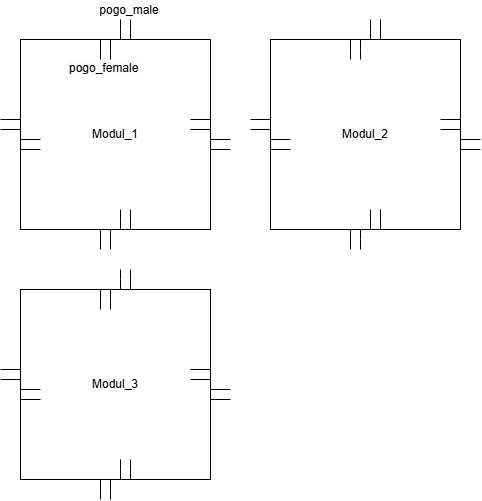
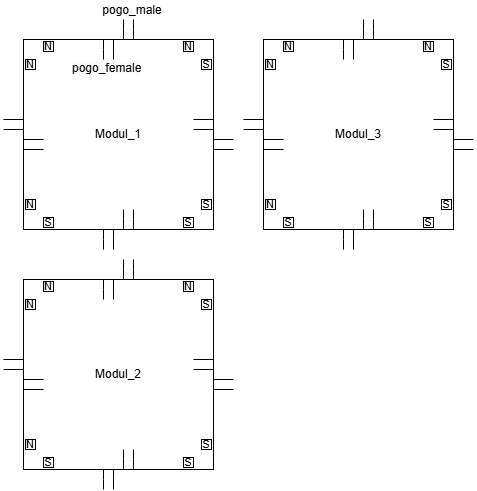
Update on Bericht

diff --git a/Bericht/Kapitel/vision.tex b/Bericht/Kapitel/vision.tex
@@ -1,12 +1,12 @@
 \chapter{Modulares Eingabesystem}
 \section{Vision}
-Das Eingabesystem verfolgt die Vision eines flexiblen und erweiterbaren Steuerungssystems, das sich an die individuellen Bedürfnisse der Benutzer anpasst. Im Zentrum dieser Vision steht ein Hauptmodul, das als Mikrocontroller-Einheit dient und über eine USB-Schnittstelle mit einem Computer verbunden wird. Dieses Hauptmodul koordiniert die Kommunikation und Funktionalität der angeschlossenen Module.
+Das Eingabesystem verfolgt die Vision eines flexiblen und erweiterbaren Systems, das sich an die individuellen Bedürfnisse der Benutzer anpasst. Im Zentrum steht ein Hauptmodul, das als Mikrocontroller-Einheit dient und über eine USB-Schnittstelle mit einem Computer verbunden wird. Dieses Hauptmodul koordiniert die Kommunikation und Funktionalität der verbundenen Module.
 \\
 \\
-Die Module des Systems, wie das Tastatur-Modul mit einer 4x4-Tastenmatrix oder das Audio-Modul mit Potentiometern und Fadern, sind frei kombinierbar und können je nach Anwendungsfall hinzugefügt oder entfernt werden. Dies ermöglicht eine maßgeschneiderte Konfiguration für unterschiedliche Aufgaben wie Textverarbeitung, Bildbearbeitung, Audiobearbeitung oder Gaming.
+Die Module, wie das Tastatur-Modul mit einer 4x4-Tastenmatrix oder das Audio-Modul mit Potentiometern und Fadern, sind frei kombinierbar und können je nach Anwendungsfall hinzugefügt oder entfernt werden. Dies ermöglicht eine Konfiguration für unterschiedliche Aufgaben wie Textverarbeitung, Bildbearbeitung, Audiobearbeitung oder Gaming.
 \\
 \\
-Die folgende Abbildung gewährt einen Überblick über das Eingabesystem:
+Die folgende Abbildung gewährt einen Überblick des Eingabesystems:
 \begin{figure}[H]
     \centering    
     \fbox{\includegraphics[width=.75\textwidth]{Bilder/bu_vision.png}}
@@ -15,11 +15,11 @@ Die folgende Abbildung gewährt einen Überblick über das Eingabesystem:
 \end{figure}
 \noindent Die gestrichelten Linien stellen eine bereits hergestellte Verbindung zwischen den Modulen dar, wobei die \glqq Plus\grqq{} Symbole einen weiteren möglichen Modulanschluss darstellen. Die Module werden untereinander durch die Verwendung von Pogo-Pin-Steckern verbunden.
 \subsection{Steckverbindung}
-Zwischen den Modulen werden Daten und Spannungsversorgung über eine 4 Pin-Verbindung realisiert. Diese sind VCC (Spannungsversorgung), Data + (Datenbus), Data - (invertierter Datenbus) und GND (Masse). Da der Benutzer die Möglichkeit haben soll, jedes Modul an jede Seite eines anderen anstecken zu können, werden pro Seite zwei 2-Pin Pogo Stecker verwendet, ein 2-Pin Male und ein 2-Pin Female Stecker. Dadurch kann durch kluge Positionierung jede Seite eines Moduls mit jeder Seite eines anderen verbunden werden.
+Zwischen den Modulen werden Daten und Spannungsversorgung über eine 4 Pin-Verbindung realisiert. Diese sind VCC (Spannungsversorgung), Data + (Datenbus), Data - (invertierter Datenbus) und GND (Masse). Da der Benutzer die Möglichkeit haben soll, jedes Modul an jede Seite eines anderen anstecken zu können, werden pro Seite zwei 2-Pin Pogo Stecker verwendet, ein 2-Pin Male und ein 2-Pin Female Stecker. Dadurch kann durch kluge Positionierung jede Seite eines Moduls mit jeder Seite eines anderen verbunden werden. Um eine feste Verbindung zu gewährleisten,  werden Neodym-Magnete ins Gehäuse verbaut. Somit werden die Module nicht durch ein Versehen und Verrutschen voneinander getrennt.
 \begin{figure}[H]
     \centering    
-    \fbox{\includegraphics[width=.75\textwidth]{Bilder/bu_pogoverbindung.png}}
+    \fbox{\includegraphics[width=.85\textwidth]{Bilder/bu_pogoverbindung.png}}
     \caption{Pogo verbindung}
     \label{pogo_verbindung}
 \end{figure}
- \noindent Abbildung \ref{pogo_verbindung} zeigt, dass die Steckverbindungen eine beliebige Anordnung der Module zulassen.
+ \noindent Abbildung \ref{pogo_verbindung} zeigt, dass die Steckverbindungen eine nahezu beliebige Anordnung der Module zulassen. Es gibt Kombinationen von Seiten wie z.B. Oberseite und Oberseite, die aufgrund der physikalischen Eigenschaften der Magnete nicht verbunden werden können. Nichtsdestotrotz würde diese Kombination wenig Sinn ergeben, da dadurch beide Oberseiten in verschiedene Richtungen zeigen würden.  Die \glqq N\grqq{} und \glqq S\grqq{} Symbole stellen die im Gehäuse verbauten Magneten (Nord- und Südpol) zum Zusammenhalt der Module dar.

diff --git a/Bericht/Kapitel/datenbus.tex b/Bericht/Kapitel/datenbus.tex
@@ -1,15 +1,15 @@
-\section{Datenbus}
-Eines der Hauptbestandteile des modularen Eingabesystems ist das Entwerfen und Umsetzen eines leistungsfähigen und flexiblen Datenbusses. Dieser Datenbus dient als Kommunikationsschnittstelle zwischen den verschiedenen Modulen, wie dem Keypad-Modul und dem Audiomodul und ermöglicht dadurch die Datenübertragung zum Hauptmodul. Skalierbarkeit, Zuverlässigkeit und Geschwindigkeit sind die Hauptkriterien des Datenbusses. Ziel ist es, eine einfache Erweiterbarkeit durch Hinzufügen oder Entfernen von Modulen zu ermöglichen, ohne dabei grundlegende Kommunikationsmechanismen zu beeinträchtigen.
+\section{Serieller Datenbus}
+Eines der Hauptbestandteile des modularen Eingabesystems ist das Entwerfen und Umsetzen eines leistungsfähigen und flexiblen Datenbusses. Dieser Datenbus dient als Kommunikationsschnittstelle zwischen den verschiedenen Modulen, wie dem Keypad-Modul und dem Audiomodul und ermöglicht dadurch die Datenübertragung zum Hauptmodul. Die Hauptkriterien des Datenbusses sind Skalierbarkeit, Zuverlässigkeit und Geschwindigkeit. Ziel ist es, eine einfache Erweiterbarkeit durch Hinzufügen oder Entfernen von Modulen zu ermöglichen, ohne dabei die grundlegende Struktur der Kommunikation zu verändern.
 
 \section{Aufbau des Datenbusses}
 Der Bus ist nach folgendem Schema aufgebaut:
 \begin{itemize}
-    \item Start of Frame (SOF) - 2 Bit zum Synchronisieren der Frequenzen; Durch ein HIGH-Value wird der Begin des SOF bekanntgegeben und durch das darauf folgende LOW-Value können die Teilnehmer sich auf die Übertragungsgeschwindigkeit synchronisieren.
-    \item Sendeadresse -  3 Bit zum Senden der Adresse; Die Adresse 0x00 ist für neue Teilnehmer reserviert, über diese Adresse findet die Adressvergabe statt. Die Adresse 0x01 ist fest an das Hauptmodul vergeben, alle Teilnehmer wissen das auf dieser Adresse das Hauptmodul liegt. Die Adressen 0x02 bis 0x07 stehen für Teilnehmer zur Verfügung. 3 Bit sind vollkommen aussreichend, da das System als Desktop Erweiterung geplant ist und mehr als 6 Module nicht vorgesehen ist. Sollten in Zukunft mehr Teilnehmer erforderlich sein, lässt sich das im Code leicht anpassen.
-    \item Content of Frame (COF) - 3 Bit für Datenlänge in Byte; Das COF enthält die Länge der Übertragenden Daten in Byte. Dies dient dazu, dass die Länge der zu übertragenden Daten dynamisch sein kann (bis zu 8 Byte). Zusätzlich können Teilnehmer welche nicht angesprochen werden festlegen wie lange der Bus belegt ist bevor diese versuchen sollten zu senden.
-    \item Daten - 0-8 Byte
+    \item Start of Frame (SOF) - 2 Bit zum Synchronisieren der Frequenzen
+    \item Sendeadresse -  3 Bit zum Senden der Adresse
+    \item Content of Frame (COF) - 3 Bit für Datenlänge in Byte
+    \item Daten - X Byte
     \item ?? (CRC) - X Bit
-    \item Enf of Frame (EOF) - 4 Bit Signalende; Vier aufeinanderfolgende LOW-Values geben das Ende der Nachricht an. Ein Teilnehmer der Senden möchte wartet bis er 4 aufeinanderfolgende LOW-Value empfangen hat bevor dieser Sendet.
+    \item Enf of Frame (EOF) - 4 Bit LOW, Signalende
 \end{itemize}
 
 Die folgende Abbildung stellt den Datenbus dar:
@@ -19,6 +19,4 @@ Die folgende Abbildung stellt den Datenbus dar:
     \caption{Aufbau des Datenbusses}
     \label{Datenbus}
 \end{figure}
-
-\subsection{Bitstuffing}
-Um Sicherzustellen, dass innerhalb der Datenübertragung keine vier Aufeinanderfolgenden LOW-Value gesendet werden wird das Prinzip des Bitstuffing eingesetzt. Mithilfe einer Laufvariable werden die zu sendenden Bits gezählt und vor dem vierten gleichen Bit wird ein invertiertes Bit gesendet.
+Die Abbildung \ref{Datenbus} zeigt die gruppierte Übertragungsreihenfolge der Bits.

diff --git a/Bericht/Kapitel/programme.tex b/Bericht/Kapitel/programme.tex
@@ -1,19 +1,4 @@
-\section{Programme}
-Für die Module gibt es ein Programcode, wo mithilfe von #define definiert wird um welche Art von Modul es sich handelt. Je nach Modultyp werden nur gewisse Funktionen genutzt:
-% hier tabelle einfügen
-
-
-Wir haben uns für diese Herangehensweise entschieden, da bei der Programmierung größere Mengen von Microkontrollern falsche Software geflashed werden könnte wenn es mehrere sehr ähnlich aussehende Programme gibt. Zusätzlich ist die Entwicklung neuer Funktionen deutlich einfacher, da eine für alle Module notwendige Änderung nicht in mehrere Quelldateien angepasst werden muss.
-
-
-\subsection{Hauptmodul}
-
-
-\subsection{Tastaturmodul}
-\subsection{Übersetzerprogramm}
-Um die HEX-Werte aus der UART Verbindung vom Hauptmodul am Computer auszuwerten wird ein Python Script geschrieben, welches diese einließt und auswertet. Mit unserem aktuellen Prototypen lassen sich so die vier Tasten beliebig "belegen" und zum Beispiel eine Powerpoint Präsentation steuern.
-
-
-\lstinputlisting[language=c++, caption={main.cpp}, label={main.cpp}]{Kapitel/Programme/main.cpp}
-\lstinputlisting[language=python, caption={pyscript}, label={pyscript}]{Kapitel/Programme/uart.py}
-
+\section{Hauptmodul}
+\section{Tastaturmodul}
+\section{Übersetzerprogramm}
+\subsection{}

diff --git a/Bericht/Kapitel/projektarbeit.tex b/Bericht/Kapitel/projektarbeit.tex
@@ -3,9 +3,9 @@
 
 Wir haben uns für ein Agiles Projektmanagement entschieden. Im Rahmen des Agilen entwickeln haben wir uns auf wöchentliche Sprints geeinigt. Dadurch lassen sich unsere Ziele dynamisch anpassen und schnell auf Probleme/Engpässe reagieren.\\
 
-Zu Beginn haben wir uns ein Endziel gesetzt auf das wir hinarbeiten wollen. Innerhalb des ersten Sprints konnten wir erfolgreich eine simple Datenübertragung zwischen einem ESP32 und einem Arduino Nano realisieren. \\
+\noindent Zu Beginn haben wir uns ein Endziel gesetzt auf das wir hinarbeiten wollen. Innerhalb des ersten Sprints konnten wir erfolgreich eine simple Datenübertragung zwischen einem ESP32 und einem Arduino Nano realisieren. \\
 
-In den folgenden zwei Sprints konnte ein erster Prototyp unseres Bus entwickelt werden. Hierbei handelte es sich um einen Eindraht Bus und unsere Software erlaubte nur Unidirektionale Kommunikation zwischen einem Sender und mehreren Empfängern.
+\noindent In den folgenden zwei Sprints konnte ein erster Prototyp unseres Bus entwickelt werden. Hierbei handelte es sich um einen Eindraht Bus und unsere Software erlaubte nur Unidirektionale Kommunikation zwischen einem Sender und mehreren Empfängern.
 
 \subsection{Erfolge}
 \subsubsection{Synchronisation}
